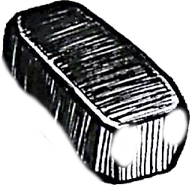
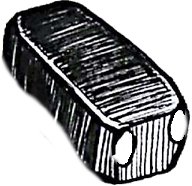
better chleb

Changed region(s): [[0.5625, 0.6452, 0.75, 0.914], [0.8438, 0.5645, 0.9688, 0.8065]]

diff --git a/src/gamestates/disco.c b/src/gamestates/disco.c
@@ -372,7 +372,7 @@ void Gamestate_Draw(struct Game *game, struct GamestateResources* data) {
 	}
 
 
-	SetCharacterPosition(game, data->dron, 775 + cos(data->wind * 5) * 3, 268, 0);
+	SetCharacterPositionF(game, data->dron, (775.0 + cos(data->wind * 5) * 3) / 1920.0, 268.0 / 1080.0, 0);
 
 	al_draw_bitmap(data->shadow, 845 + 116 + data->noga3x, 150 + 100 + data->noga3y, 0);
 	al_draw_bitmap(data->shadow, 887 + 195 + data->noga4x, 268 + 125 + data->noga4y, 0);
@@ -383,7 +383,8 @@ void Gamestate_Draw(struct Game *game, struct GamestateResources* data) {
 	al_draw_rotated_bitmap(data->nozka4, 15, 108, 887 + 15 + data->noga4x, 268 + 108 + data->noga4y, -(cos(data->noga4 + ALLEGRO_PI) + 1) / 5.0, 0);
 	DrawCharacter(game, data->dron, al_map_rgb(255,255,255), 0);
 	al_draw_rotated_bitmap(data->nozka1, 234, 56, 589 + 234 + data->noga1x, 285 + 56 + data->noga1y, (cos(data->noga1 + ALLEGRO_PI) + 1) / 5.0, 0);
-	al_draw_rotated_bitmap(data->nozka2, 175, 16, 683 + 175 + data->noga2x, 379 + 16 + data->noga2y, (cos(data->noga2 + ALLEGRO_PI) + 1) / 5.0, 0);
+	al_draw_rotated_bitmap(data->nozka2, 175, 16, 683 + 175 + data->noga2x, 376 + 16 + data->noga2y, (cos(data->noga2 + ALLEGRO_PI) + 1) / 5.0, 0);
+
 	al_draw_bitmap(data->chleb, 775 + cos(data->wind * 5) * 3, 268, 0);
 
 
